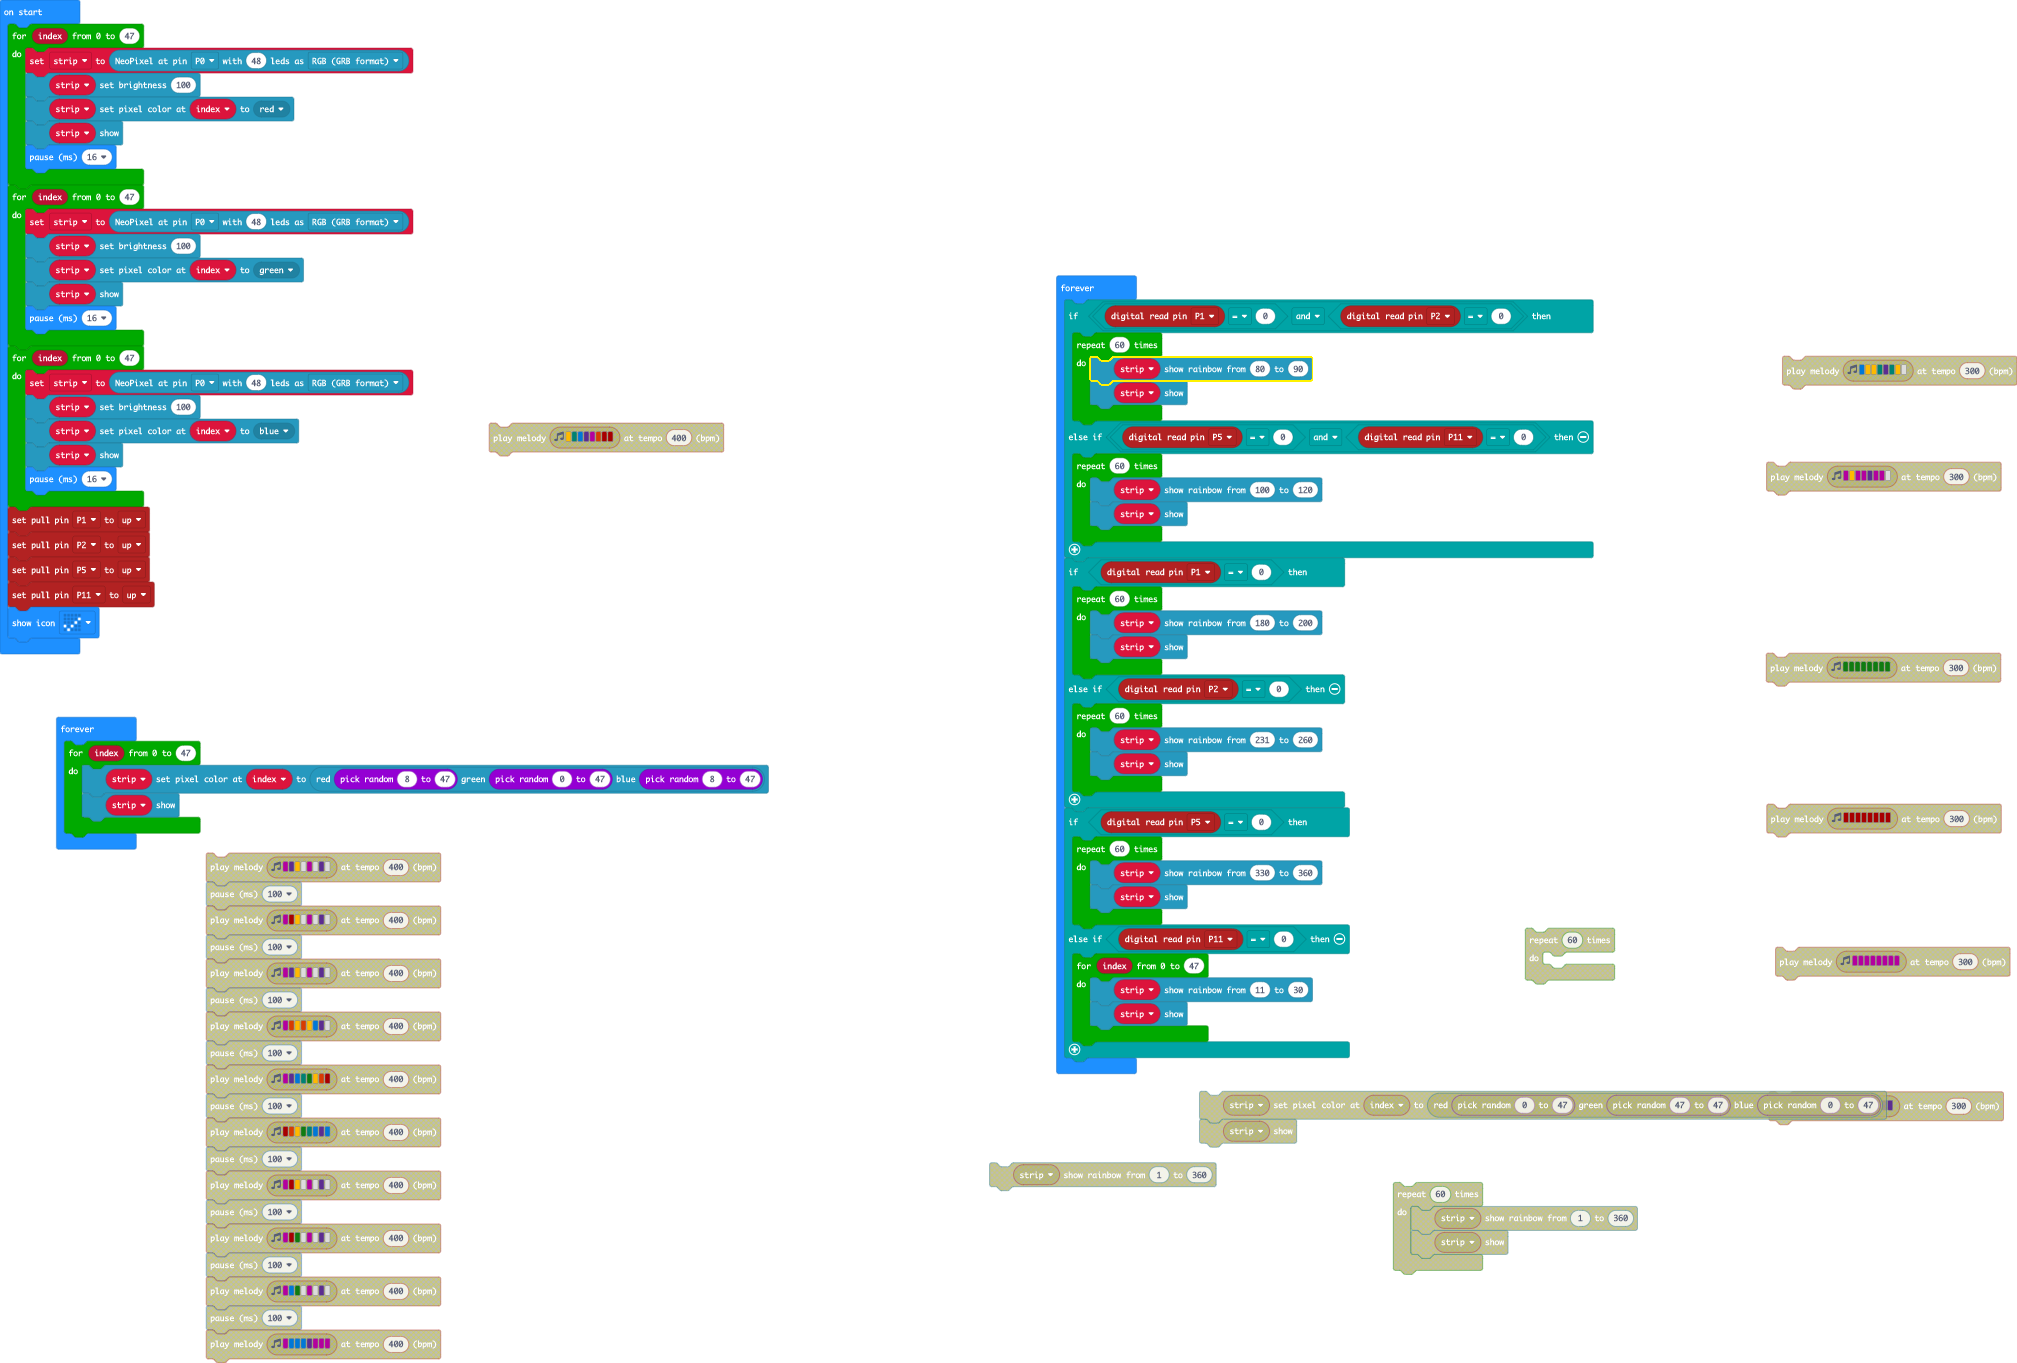
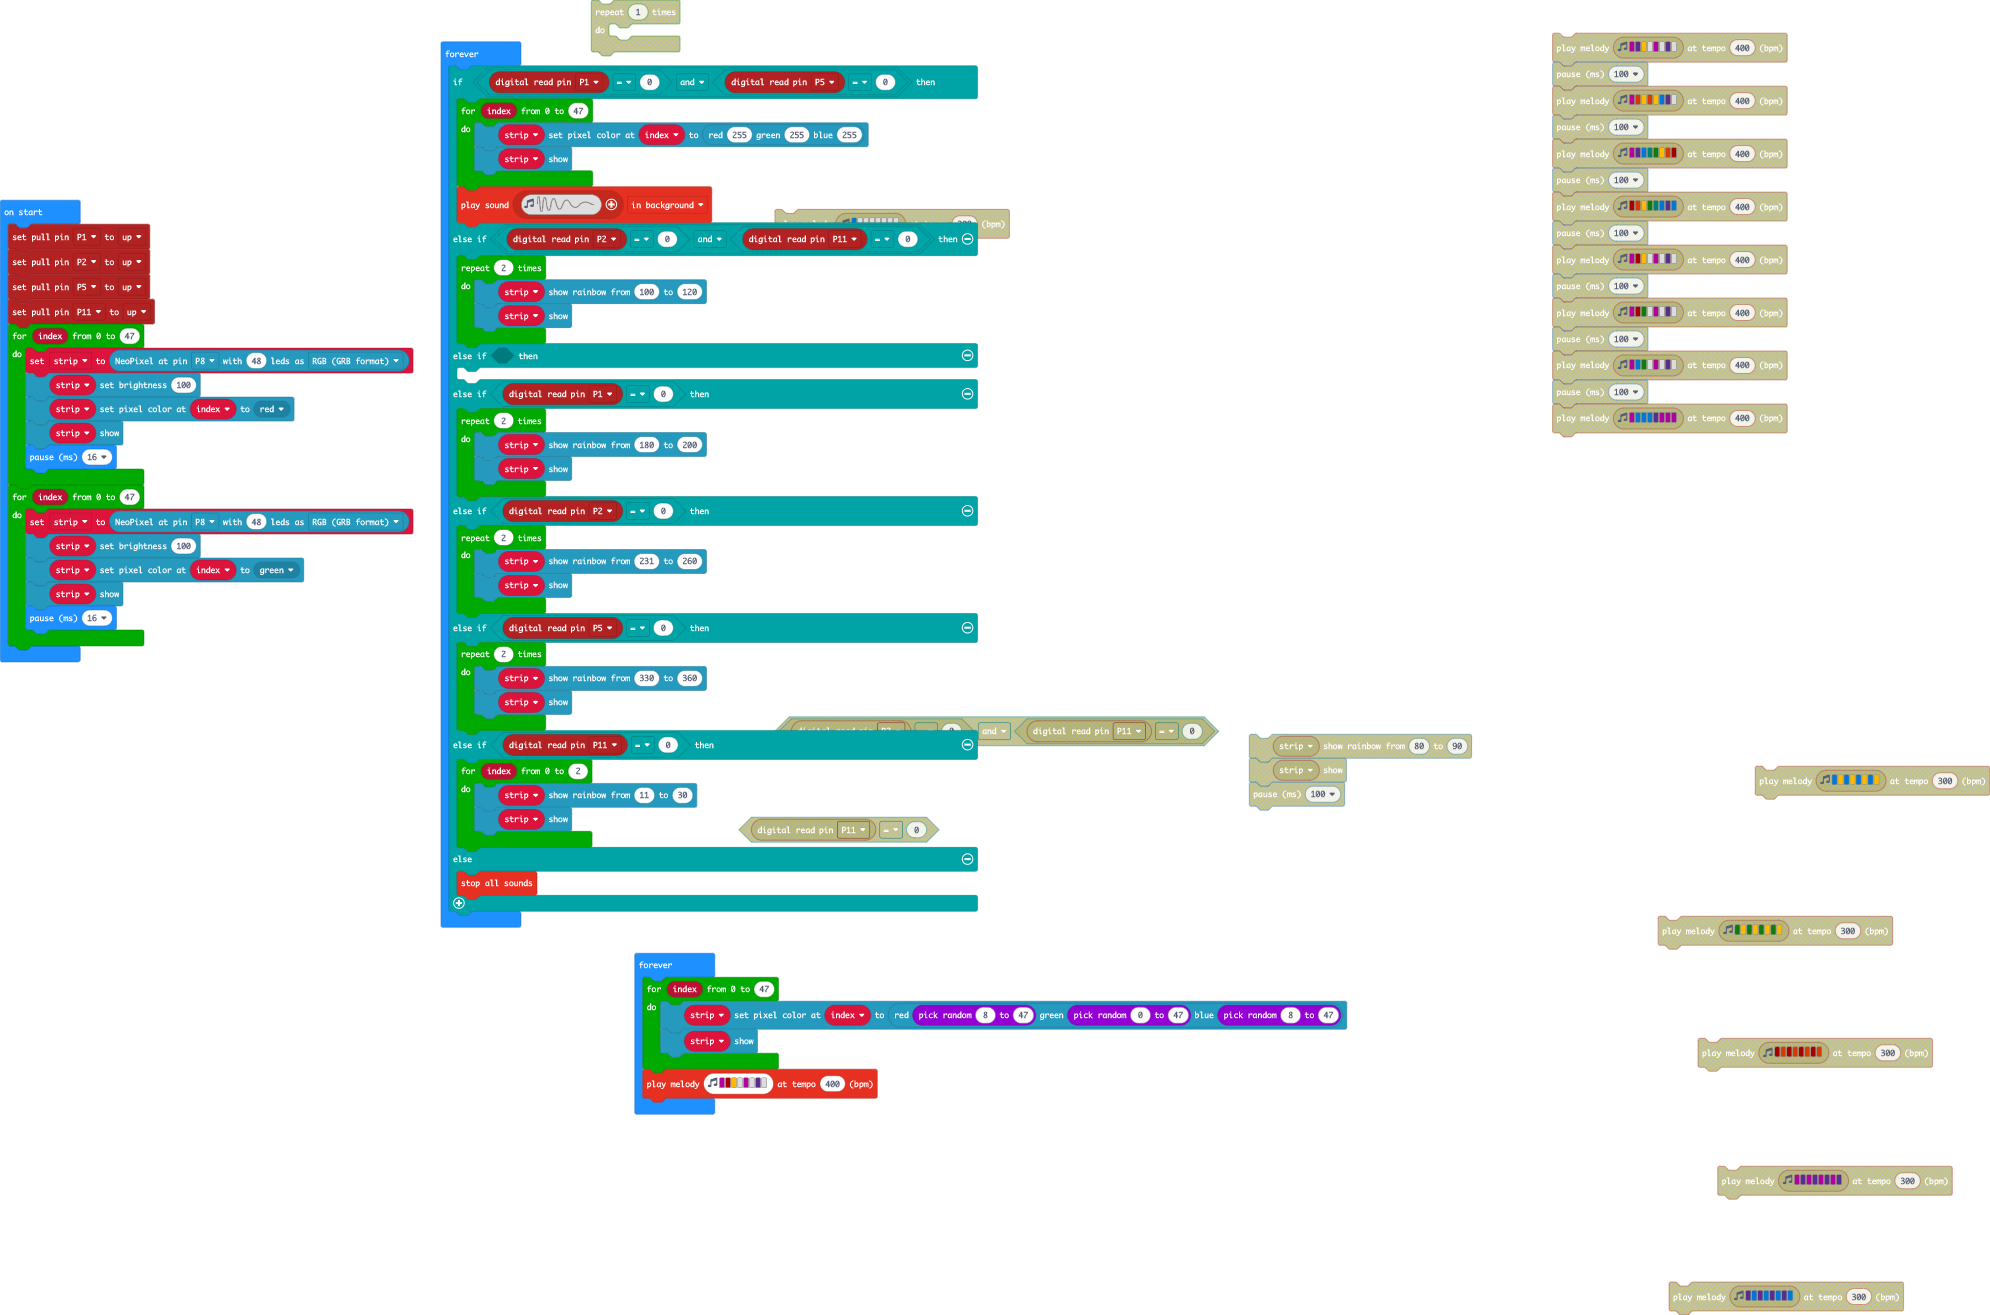
Update pxt.json, main.blocks, main.ts

diff --git a/main.ts b/main.ts
@@ -1,63 +1,58 @@
 let strip: neopixel.Strip = null
+pins.setPull(DigitalPin.P1, PinPullMode.PullUp)
+pins.setPull(DigitalPin.P2, PinPullMode.PullUp)
+pins.setPull(DigitalPin.P5, PinPullMode.PullUp)
+pins.setPull(DigitalPin.P11, PinPullMode.PullUp)
 for (let index = 0; index <= 47; index++) {
-    strip = neopixel.create(DigitalPin.P0, 48, NeoPixelMode.RGB)
+    strip = neopixel.create(DigitalPin.P8, 48, NeoPixelMode.RGB)
     strip.setBrightness(100)
     strip.setPixelColor(index, neopixel.colors(NeoPixelColors.Red))
     strip.show()
     basic.pause(16)
 }
 for (let index = 0; index <= 47; index++) {
-    strip = neopixel.create(DigitalPin.P0, 48, NeoPixelMode.RGB)
+    strip = neopixel.create(DigitalPin.P8, 48, NeoPixelMode.RGB)
     strip.setBrightness(100)
     strip.setPixelColor(index, neopixel.colors(NeoPixelColors.Green))
     strip.show()
     basic.pause(16)
 }
-for (let index = 0; index <= 47; index++) {
-    strip = neopixel.create(DigitalPin.P0, 48, NeoPixelMode.RGB)
-    strip.setBrightness(100)
-    strip.setPixelColor(index, neopixel.colors(NeoPixelColors.Blue))
-    strip.show()
-    basic.pause(16)
-}
-pins.setPull(DigitalPin.P1, PinPullMode.PullUp)
-pins.setPull(DigitalPin.P2, PinPullMode.PullUp)
-pins.setPull(DigitalPin.P5, PinPullMode.PullUp)
-pins.setPull(DigitalPin.P11, PinPullMode.PullUp)
-basic.showIcon(IconNames.Yes)
 basic.forever(function () {
-    if (pins.digitalReadPin(DigitalPin.P1) == 0 && pins.digitalReadPin(DigitalPin.P2) == 0) {
-        for (let index = 0; index < 60; index++) {
-            strip.showRainbow(80, 90)
+    if (pins.digitalReadPin(DigitalPin.P1) == 0 && pins.digitalReadPin(DigitalPin.P5) == 0) {
+        for (let index = 0; index <= 47; index++) {
+            strip.setPixelColor(index, neopixel.rgb(255, 255, 255))
             strip.show()
         }
-    } else if (pins.digitalReadPin(DigitalPin.P5) == 0 && pins.digitalReadPin(DigitalPin.P11) == 0) {
-        for (let index = 0; index < 60; index++) {
+        music.playSoundEffect(music.createSoundEffect(WaveShape.Sine, 5000, 0, 255, 0, 500, SoundExpressionEffect.None, InterpolationCurve.Linear), SoundExpressionPlayMode.InBackground)
+    } else if (pins.digitalReadPin(DigitalPin.P2) == 0 && pins.digitalReadPin(DigitalPin.P11) == 0) {
+        for (let index = 0; index < 2; index++) {
             strip.showRainbow(100, 120)
             strip.show()
         }
-    }
-    if (pins.digitalReadPin(DigitalPin.P1) == 0) {
-        for (let index = 0; index < 60; index++) {
+    } else if (false) {
+    	
+    } else if (pins.digitalReadPin(DigitalPin.P1) == 0) {
+        for (let index = 0; index < 2; index++) {
             strip.showRainbow(180, 200)
             strip.show()
         }
     } else if (pins.digitalReadPin(DigitalPin.P2) == 0) {
-        for (let index = 0; index < 60; index++) {
+        for (let index = 0; index < 2; index++) {
             strip.showRainbow(231, 260)
             strip.show()
         }
-    }
-    if (pins.digitalReadPin(DigitalPin.P5) == 0) {
-        for (let index = 0; index < 60; index++) {
+    } else if (pins.digitalReadPin(DigitalPin.P5) == 0) {
+        for (let index = 0; index < 2; index++) {
             strip.showRainbow(330, 360)
             strip.show()
         }
     } else if (pins.digitalReadPin(DigitalPin.P11) == 0) {
-        for (let index = 0; index <= 47; index++) {
+        for (let index = 0; index <= 2; index++) {
             strip.showRainbow(11, 30)
             strip.show()
         }
+    } else {
+        music.stopAllSounds()
     }
 })
 basic.forever(function () {
@@ -65,4 +60,5 @@ basic.forever(function () {
         strip.setPixelColor(index, neopixel.rgb(randint(8, 47), randint(0, 47), randint(8, 47)))
         strip.show()
     }
+    music.playMelody("C C5 A - C - D - ", 400)
 })
